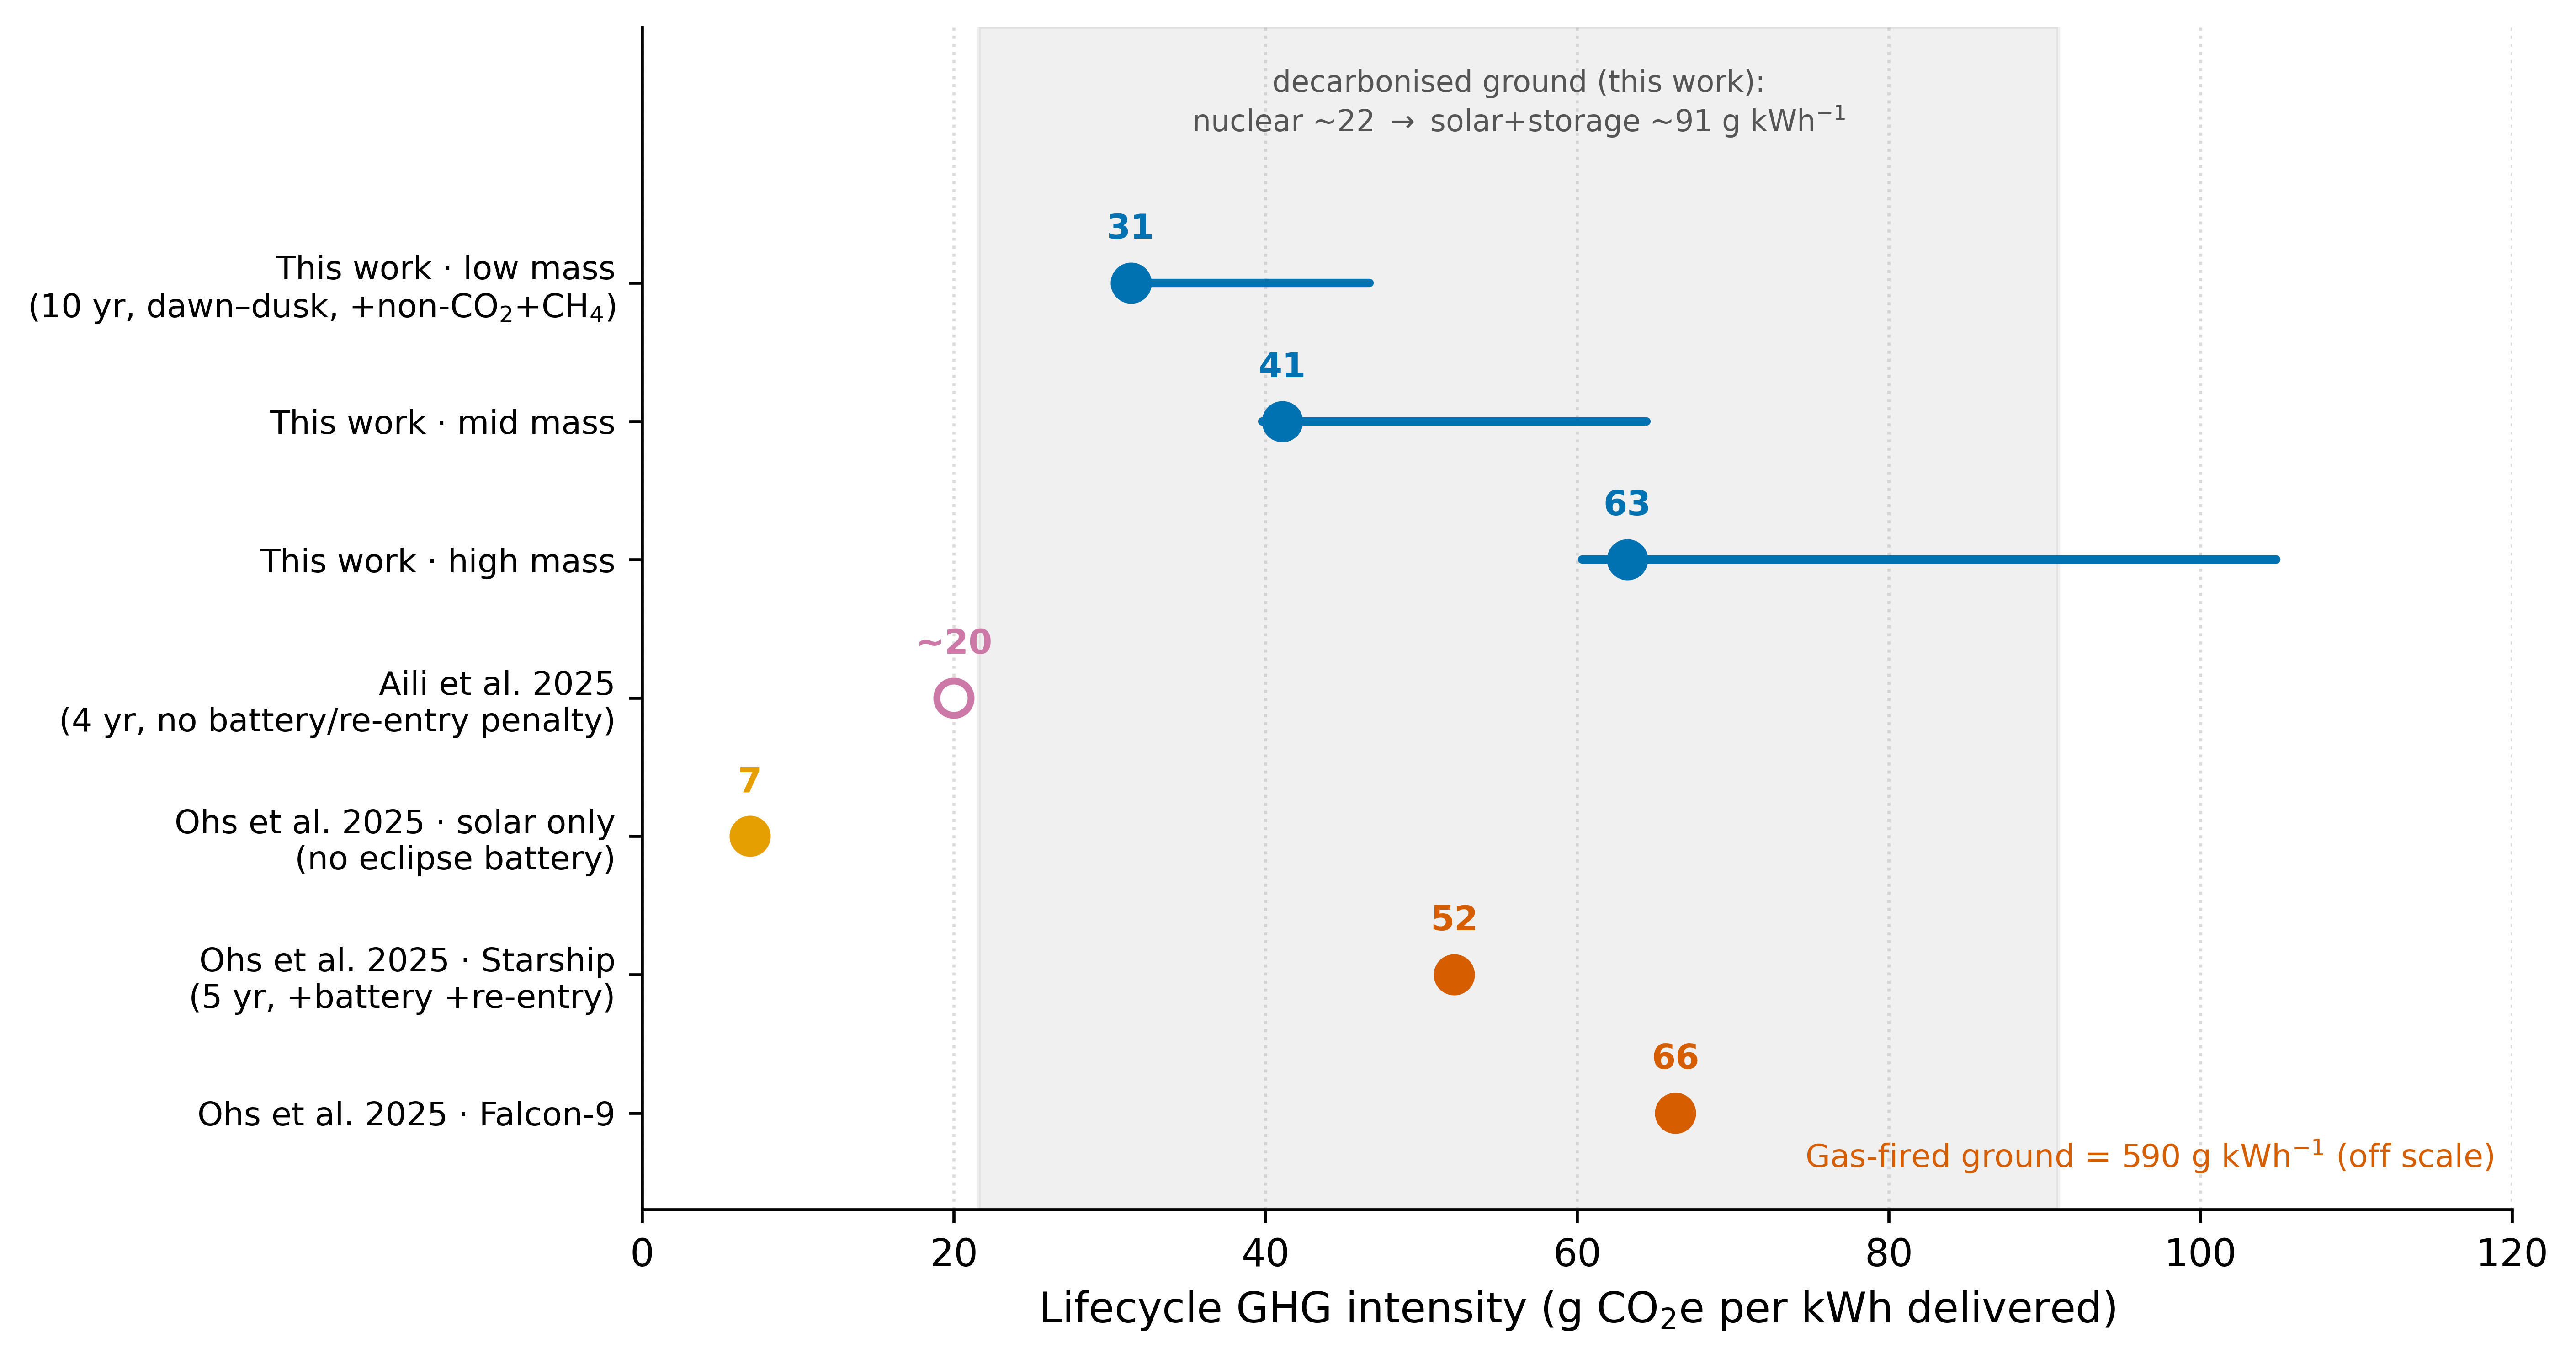
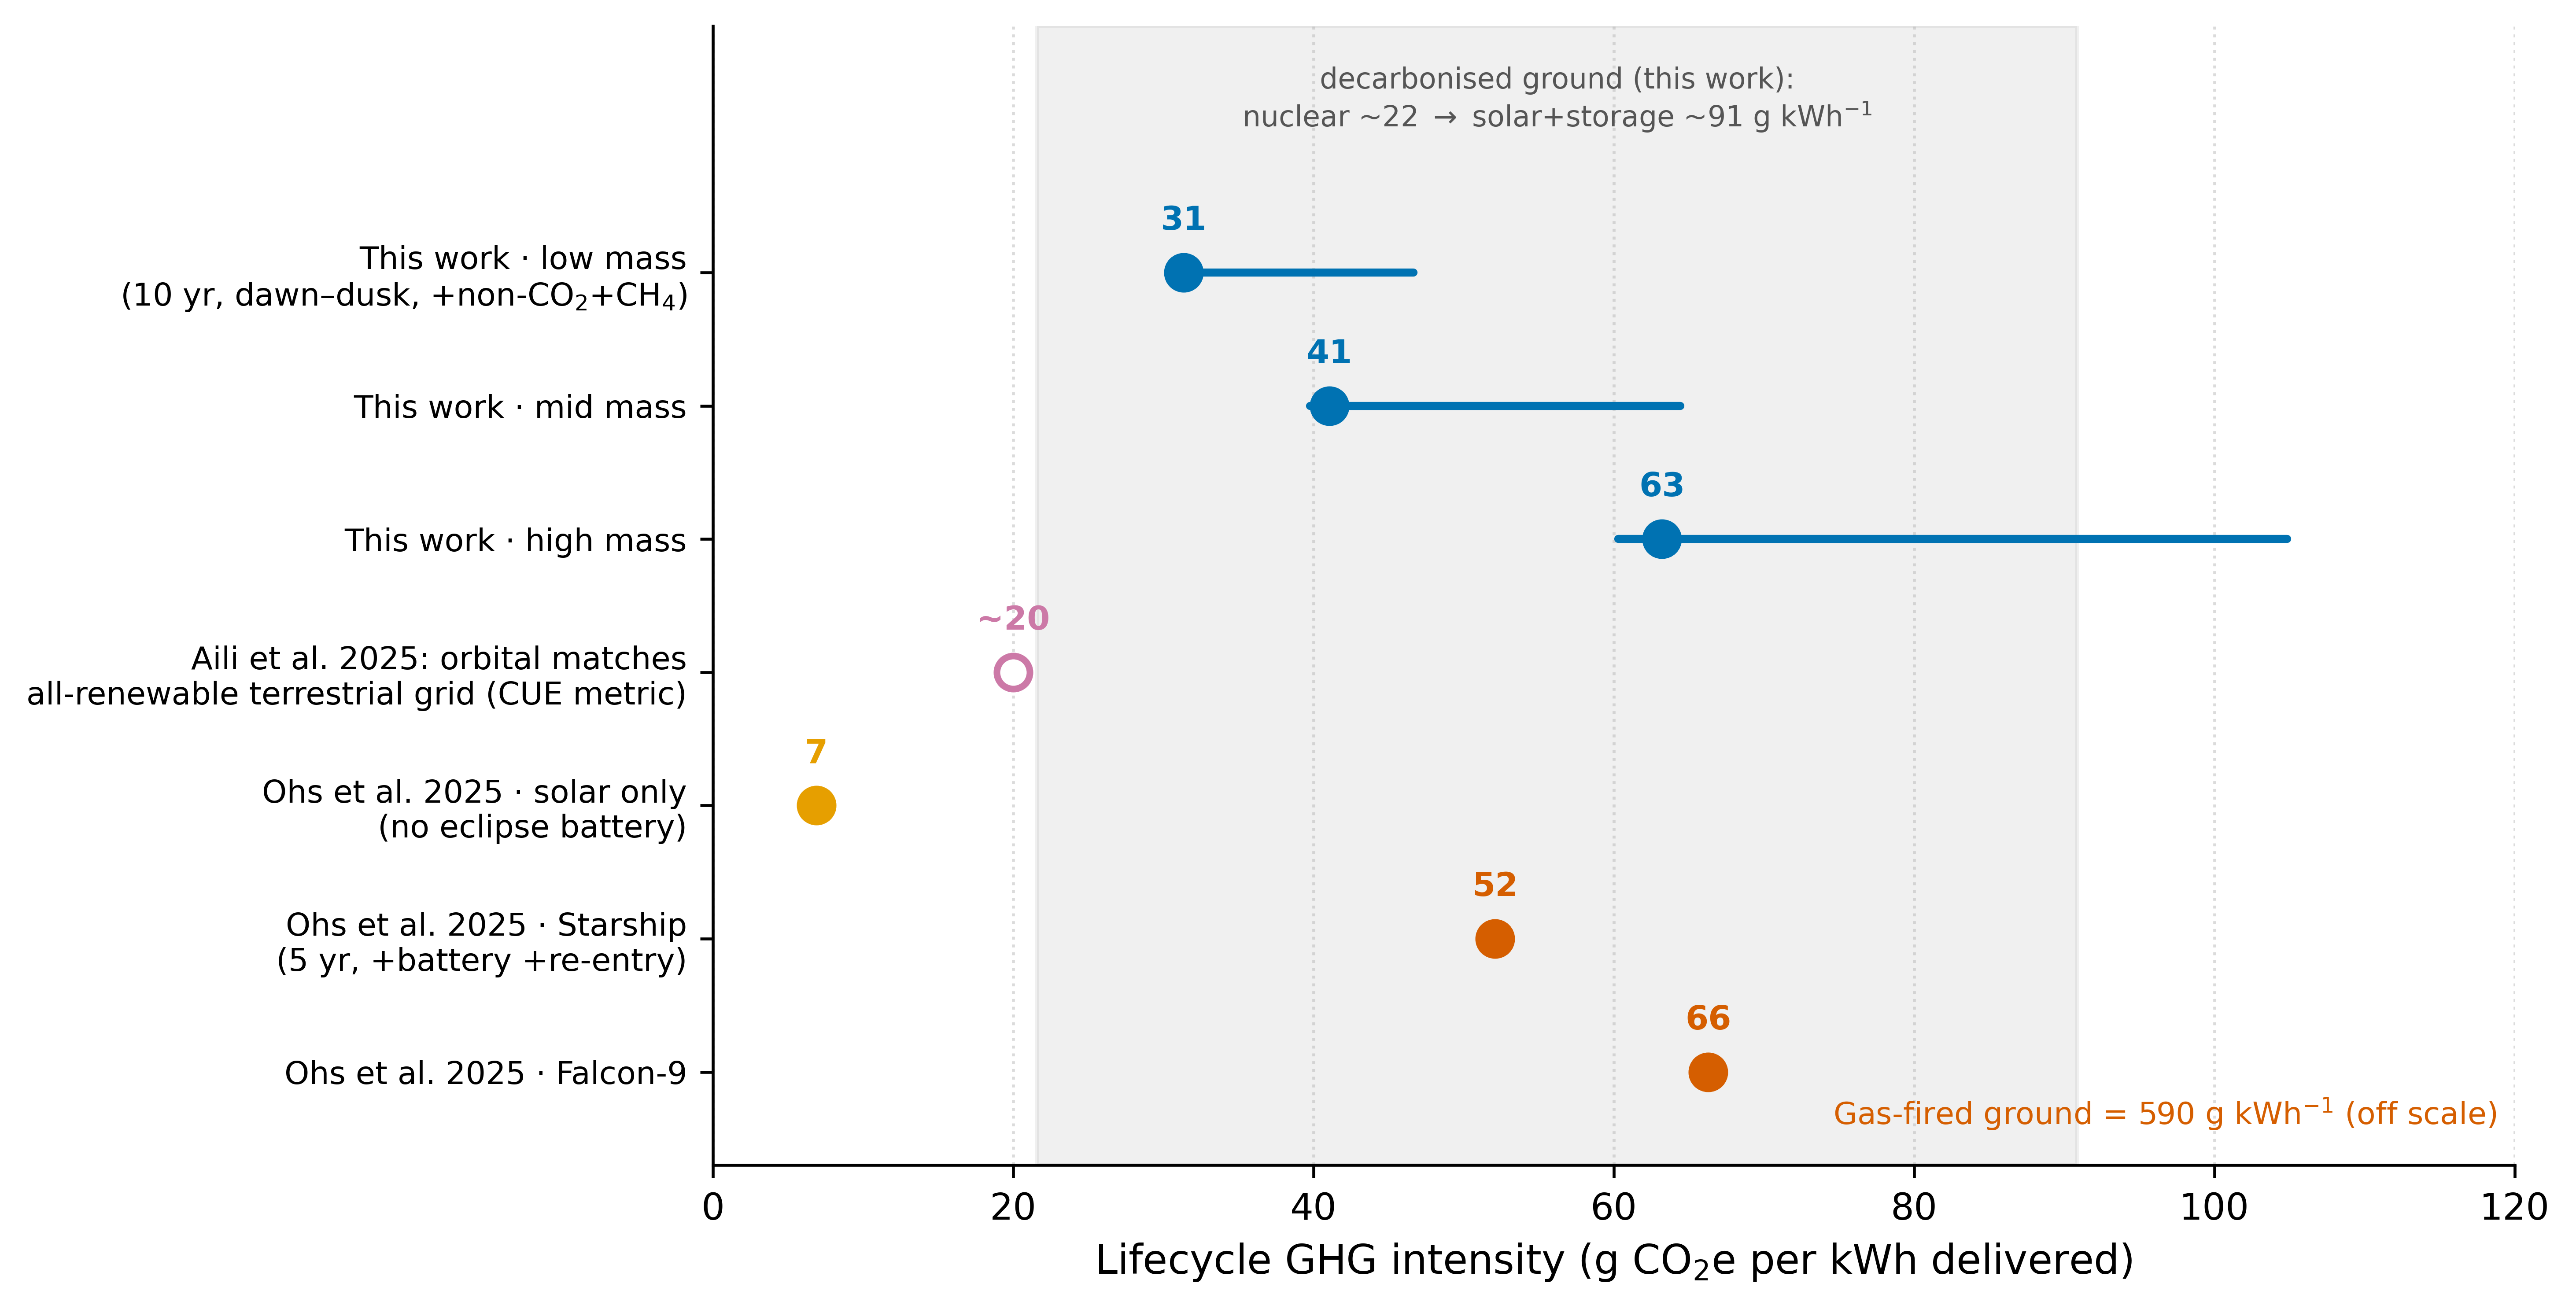
Correct representation of Aili et al. (2025) in literature comparison
The full Aili et al. paper shows their "20 gCO2e/kWh" is the all-renewable
terrestrial GRID benchmark their orbital case approaches, not a directly
comparable orbital intensity. Aili use a life-cycle CUE metric (per unit IT
energy, including the IT-manufacturing term that cancels in this differential
comparison), with absolute values ~0.6-1.5 kgCO2e/kWh. Relabel the Figure-3
marker as the terrestrial-grid benchmark, and clarify METHODOLOGY and README.

diff --git a/make_figures.py b/make_figures.py
@@ -150,14 +150,18 @@ def fig_breakeven():
 
 
 # ---------------------------------------------------------------------------
-# Comparison with published estimates (common functional unit)
-# Literature values (g CO2e/kWh delivered), as published:
-#   Aili et al. (2025), Nature Electronics: orbital ~20 at 4-yr server life
-#     (best case; solar I2=0, no explicit eclipse-battery penalty, no re-entry,
-#     Falcon-9 kerosene). Terrestrial baselines 20 / 380 / 1050.
+# Comparison with published estimates
 #   Ohs et al. (2025), "Dirty Bits in LEO": orbital 52.1 (Starship) / 66.3
 #     (Falcon-9) at 5-yr with eclipse battery + re-entry; solar-array-only
-#     (no battery) 6.3-7.5; their terrestrial baseline 34.
+#     (no battery) 6.3-7.5; their terrestrial baseline 34. Comparable basis
+#     (g CO2e/kWh delivered).
+#   Aili et al. (2025), Nature Electronics: report a life-cycle CUE (kgCO2e per
+#     IT-kWh; absolute ~0.6-1.5, NOT directly comparable as it includes the
+#     IT-manufacturing term that cancels in our differential comparison). Their
+#     conclusion: orbital solar (I2=0) approaches an all-renewable-grid terrestrial
+#     DC at 4-yr server life. The 20 marker below is that all-renewable terrestrial
+#     GRID intensity (their ref. 88 benchmark), not an orbital absolute. (Their other
+#     grid refs: 380 = medium-carbon = Google scope-2; Google life-cycle CUE 1050.)
 # ---------------------------------------------------------------------------
 def fig_literature():
     sc = M.scenarios_with_ranges()
@@ -174,7 +178,7 @@ def fig_literature():
         ('This work · low mass\n(10 yr, dawn–dusk, +non-CO$_2$+CH$_4$)', tlo, rlo, CW, True, False),
         ('This work · mid mass', tmid, rmid, CW, True, False),
         ('This work · high mass', thi, rhi, CW, True, False),
-        ('Aili et al. 2025\n(4 yr, no battery/re-entry penalty)', 20.0, None, CA, False, True),
+        ('Aili et al. 2025: orbital matches\nall-renewable terrestrial grid (CUE metric)', 20.0, None, CA, False, True),
         ('Ohs et al. 2025 · solar only\n(no eclipse battery)', 6.9, (6.3, 7.5), COHL, True, False),
         ('Ohs et al. 2025 · Starship\n(5 yr, +battery +re-entry)', 52.1, None, COH, True, False),
         ('Ohs et al. 2025 · Falcon-9', 66.3, None, COH, True, False),

diff --git a/METHODOLOGY.md b/METHODOLOGY.md
@@ -253,15 +253,22 @@ interval as the range.
 
 ## 12. Reconciliation with prior estimates
 
-The orbital estimate here (central range 31–63) sits **between** the two published
-analyses:
+The orbital estimate here (central range 31–63) sits between the two prior analyses:
 
-- **Aili et al. (2025)**, *Nature Electronics* — an optimistic orbital case whose
-  intensity approaches the ~20 g/kWh of an all-renewable terrestrial grid at a 4-year
-  server life, with no explicit eclipse-battery penalty and no reentry term.
 - **Ohs et al. (2025)**, "Dirty Bits in Low-Earth Orbit" — 52 (Starship) to 66
   (Falcon-9) g/kWh for a ~30 W eclipsed CubeSat with a 4 kWh battery over 5 years,
-  counting combustion CO₂ only.
+  counting combustion CO₂ only. This is reported on a basis close to the one used here.
+- **Aili et al. (2025)**, *Nature Electronics* — uses a different metric, life-cycle
+  carbon usage effectiveness (total emissions per unit of IT energy), with absolute
+  values of order 0.6–1.5 kgCO₂e/kWh that are **not directly comparable**, because they
+  include the IT-hardware manufacturing term that cancels in the differential comparison
+  here. Their substantive conclusion is comparative and optimistic: a solar-powered
+  orbital data centre (with carbon-free operation, no explicit eclipse-battery penalty,
+  and no reentry term) **approaches a terrestrial data centre on an all-renewable grid**
+  (grid intensity ~20 gCO₂e/kWh; their reference benchmark) once servers survive about
+  four years, and stays well below medium-carbon-grid and real (Google) data centres.
+  The "~20" is therefore the all-renewable terrestrial *grid* benchmark their orbital
+  case matches, not an absolute orbital intensity.
 
 The gap is one of inputs, not physics. Starting from the mid-mass case (41 g/kWh;
 dawn–dusk orbit, 10-year life, central launch): stripping the non-CO₂ and methane

diff --git a/README.md b/README.md
@@ -97,7 +97,7 @@ coded intensities, so the assumptions are visible and adjustable:
 |---|---|
 | `figures/comparison.png` | Lifecycle GHG intensity by scenario, with uncertainty whiskers. |
 | `figures/launch_breakeven.png` | Orbital intensity vs. effective launch GHG intensity, with the launch factor at which orbit crosses the decarbonised-ground range. |
-| `figures/literature_comparison.png` | This work against published orbital estimates (Aili et al. 2025; Ohs et al. 2025) on a common functional unit. |
+| `figures/literature_comparison.png` | This work against published orbital estimates: Ohs et al. (2025) on a comparable basis, and the comparative conclusion of Aili et al. (2025), who use a different (life-cycle CUE) metric. |
 | `figures/radiator_mass.png` | Radiator specific mass vs. rejection temperature (Stefan–Boltzmann), and the heat-pump power penalty. |
 | `figures/orbit_eclipse.png` | Dawn–dusk SSO vs. generic LEO across the three mass tiers. |
 | `figures/methane_leakage.png` | Sensitivity of gas and orbital intensity to the methane-leakage rate. |